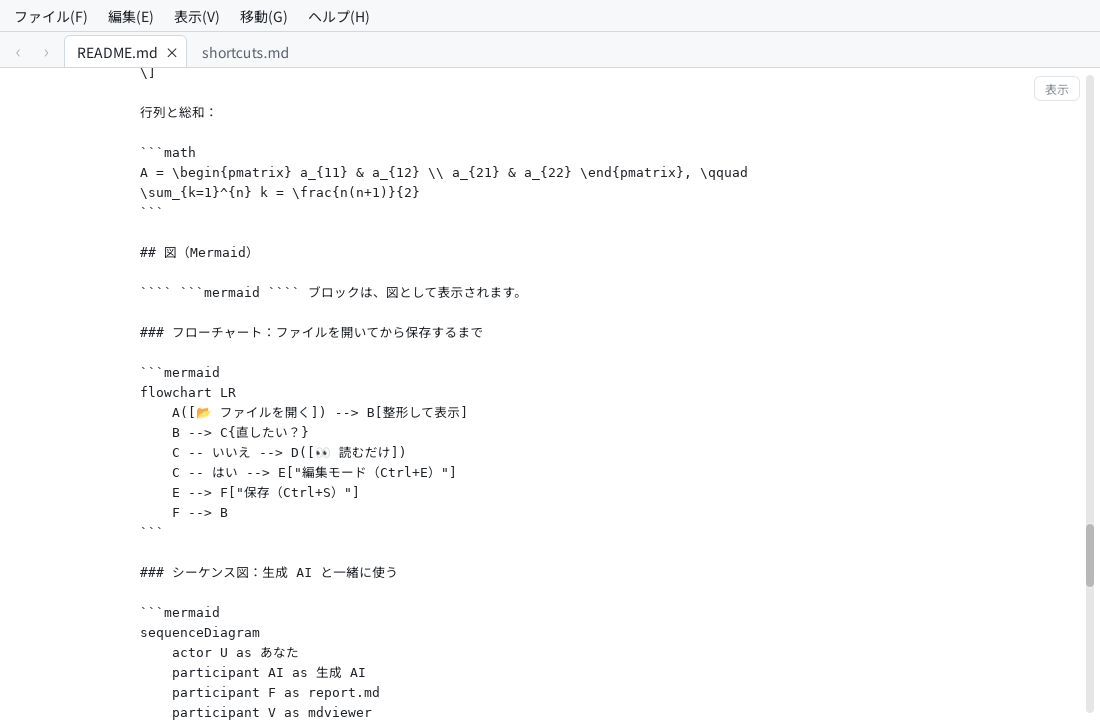
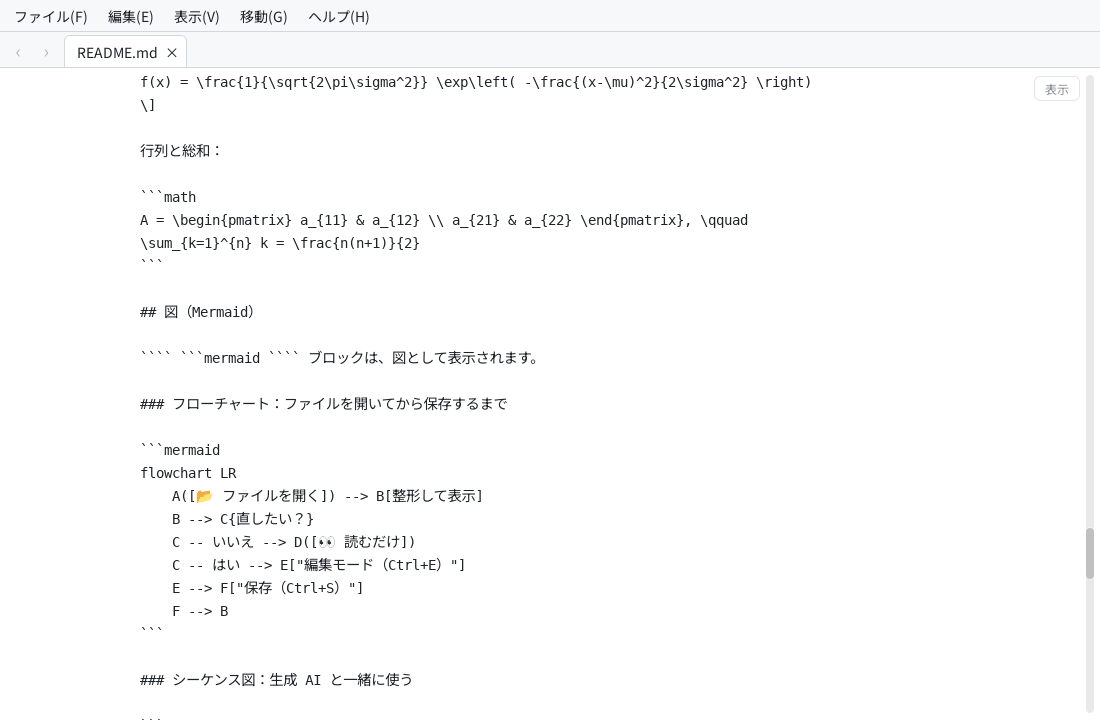
Editor text at the same size as the viewer's body text (16px)
The editor used 14px, which looked small next to the rendered view.
The README's editor screenshot is retaken at the new size.

Claude-Session: https://claude.ai/code/session_014WACe7tbnv69AqTmDkT8nE

diff --git a/ui/src/plugins/editor.tsx b/ui/src/plugins/editor.tsx
@@ -68,7 +68,7 @@ function Editor({ app, tab, active }: PaneProps) {
       aria-label={tab.doc?.name}
       onKeyDown={onKeyDown}
       onInput={(e) => app.update(e.currentTarget.value, tab)}
-      className="block h-full w-full resize-none bg-bg px-4 pt-6 pb-16 font-mono text-[calc(14px*var(--zoom,1))] text-fg leading-relaxed outline-none [tab-size:4] sm:px-[max(2rem,calc((100%-820px)/2))] sm:pt-8"
+      className="block h-full w-full resize-none bg-bg px-4 pt-6 pb-16 font-mono text-[calc(16px*var(--zoom,1))] text-fg leading-relaxed outline-none [tab-size:4] sm:px-[max(2rem,calc((100%-820px)/2))] sm:pt-8"
     />
   );
 }

diff --git a/CHANGELOG.md b/CHANGELOG.md
@@ -20,6 +20,7 @@
 - Rust 側は開いた文書ごとに ID を発行し、画面側は ID で読み書きする（タブごとの文書を安全に扱うため）
 - IPC のエラーはコード（`not-allowed` など）で返し、画面側で翻訳して表示する
 - ウィンドウは非表示で作成し、画面の準備ができてから表示する（ダークテーマで起動したときに白く表示されないように）
+- 編集モードの文字サイズを、表示モードの本文と同じ大きさ（16px）にした
 
 ## [0.1.0] - 2026-09-26
 
